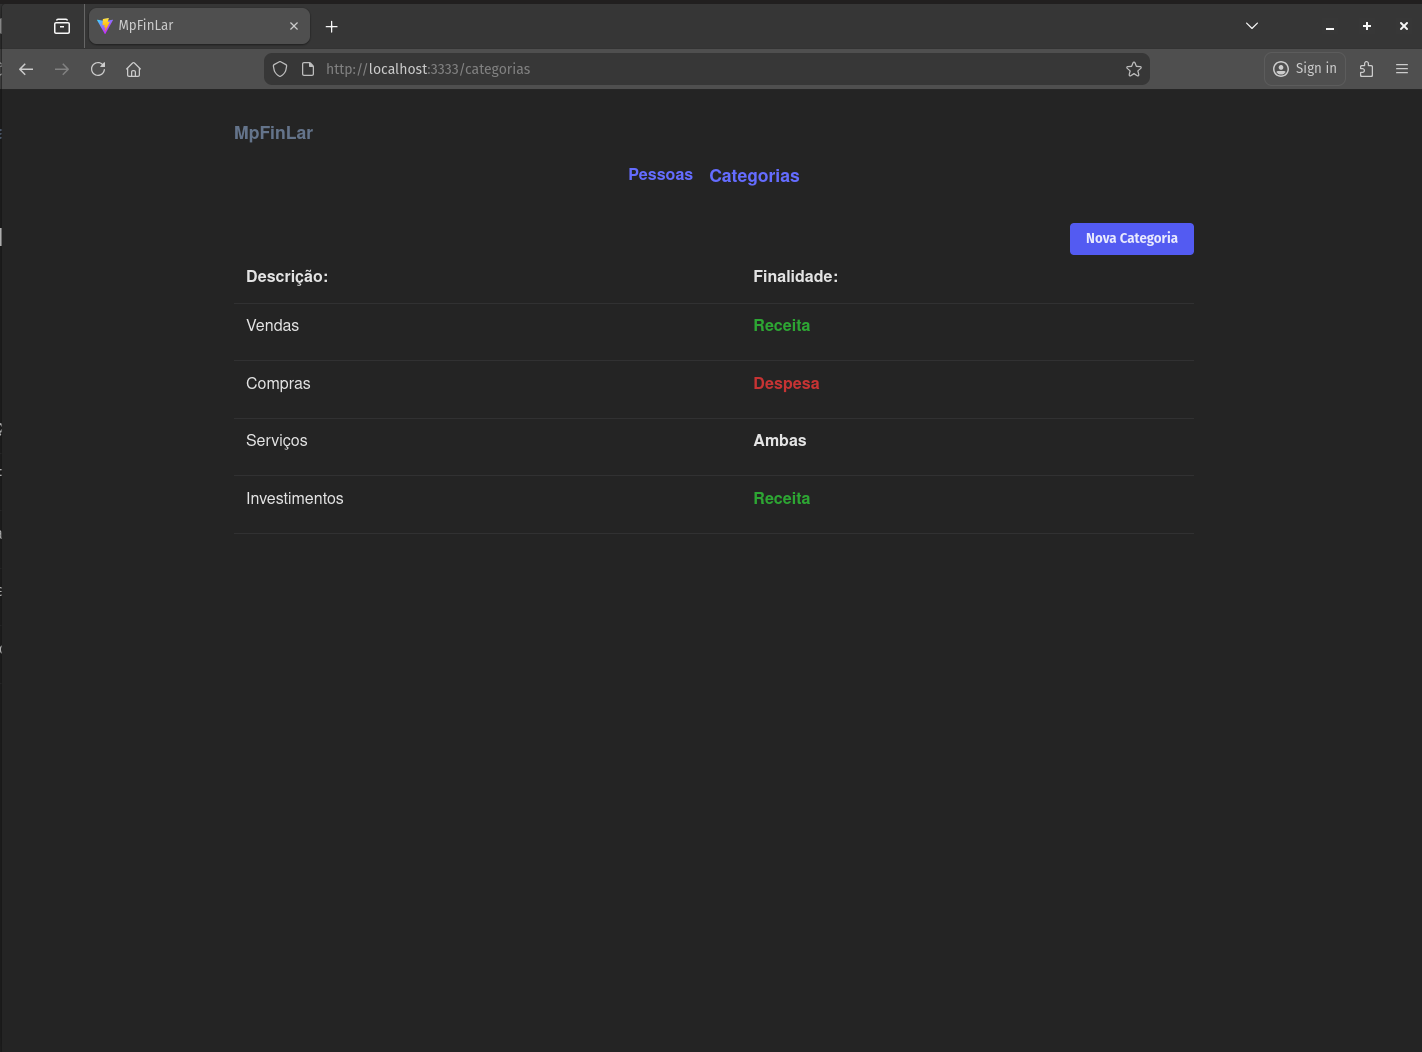
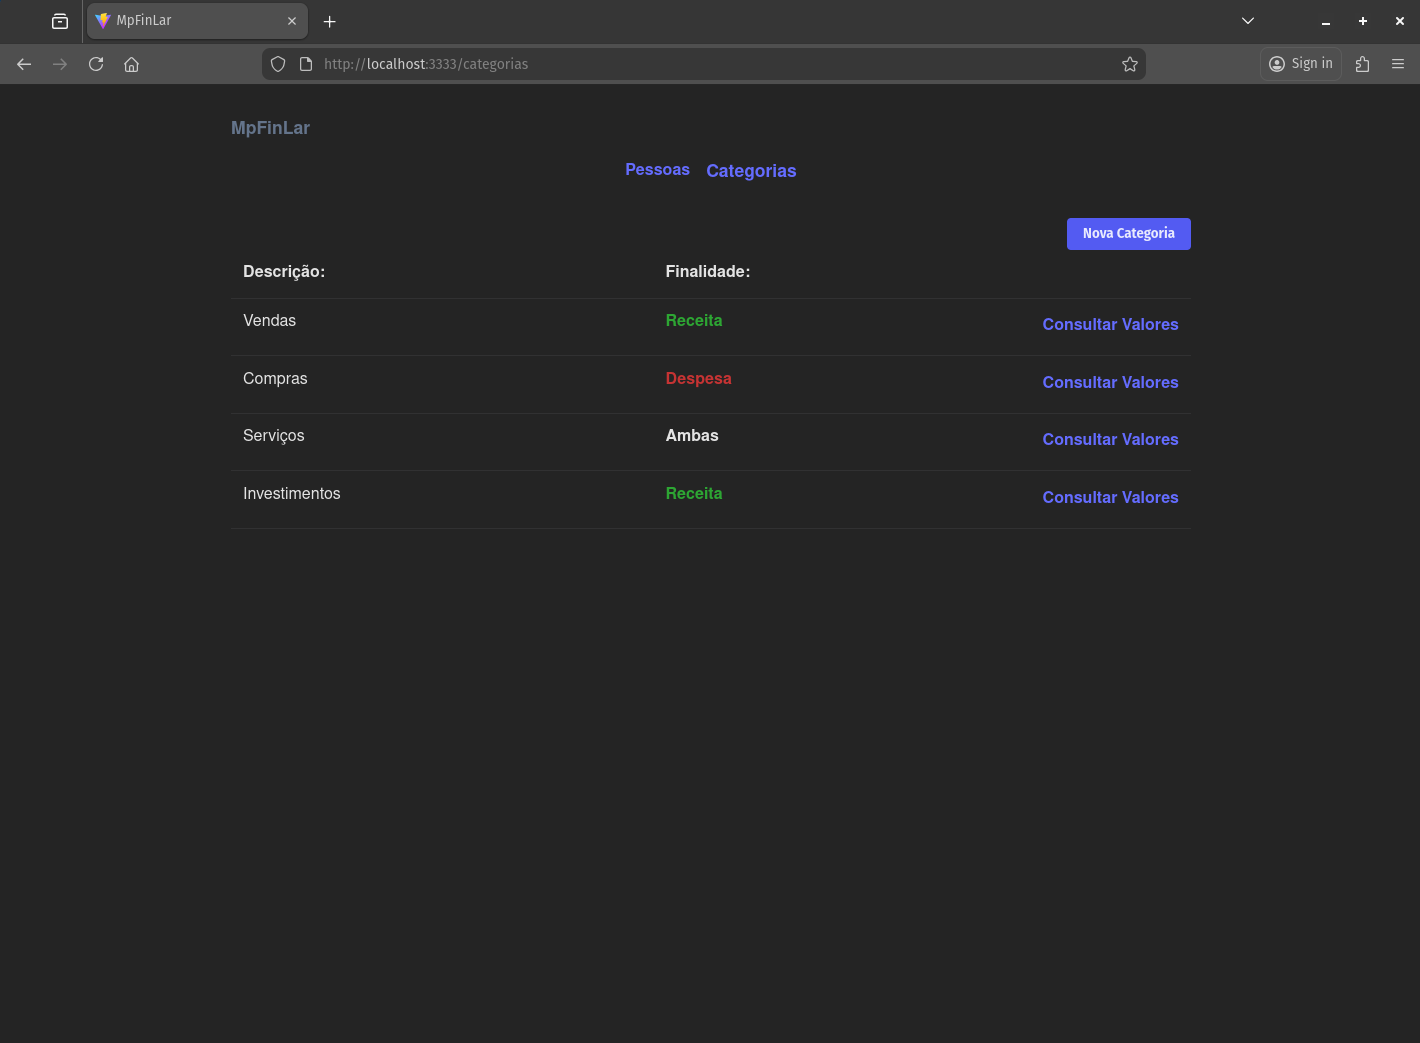
docs: atualizar readme e fontend readme

diff --git a/src/frontend/README.md b/src/frontend/README.md
@@ -1,13 +1,23 @@
+### Página de pessoas:
 ![pagina-pessoas.png](../../docs/frontend-imagens/pagina-pessoas.png)
 
+### Adicionar pessoa:
 ![form-adicionar-pessoa.png](../../docs/frontend-imagens/form-adicionar-pessoa.png)
 
+### Editar pessoa:
 ![form-editar-pessoa.png](../../docs/frontend-imagens/form-editar-pessoa.png)
 
+### Página categorias:
 ![pagina-categorias.png](../../docs/frontend-imagens/pagina-categorias.png)
 
+### Nova categoria:
 ![form-nova-categoria.png](../../docs/frontend-imagens/form-nova-categoria.png)
 
+### Consultar valores da categoria:
+![categoria-consultar-valores.png](../../docs/frontend-imagens/categoria-consultar-valores.png)
+
+### Página Transacoes:
 ![pagina-transacoes.png](../../docs/frontend-imagens/pagina-transacoes.png)
 
+### Nova transacao:
 ![form-nova-transacao.png](../../docs/frontend-imagens/form-nova-transacao.png)

diff --git a/README.md b/README.md
@@ -162,6 +162,7 @@ Se a pessoa for menor de 18 anos:
 
 - Criar
 - Listar por pessoa
+- Listar por categoria
 
 ### Consulta de Totais
 
